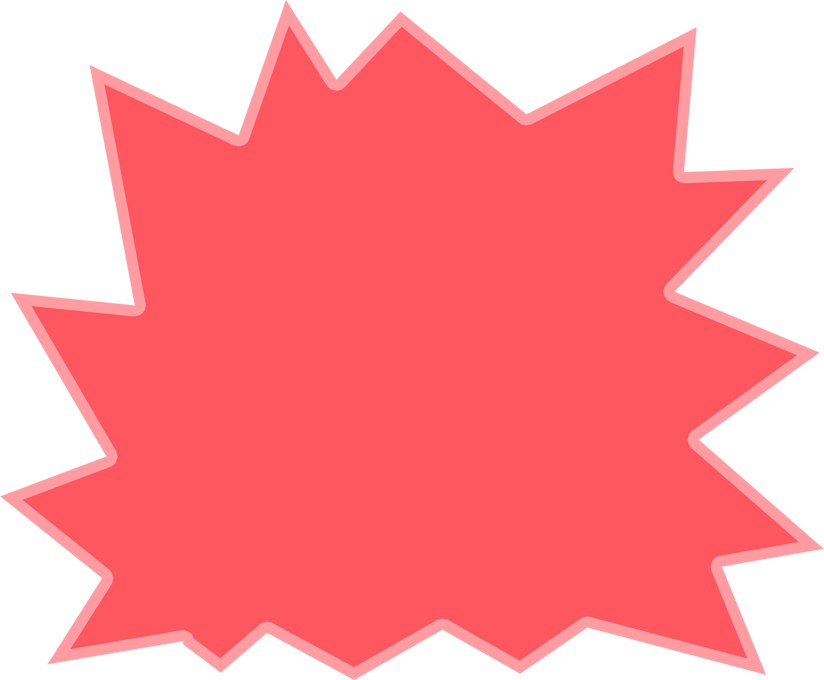
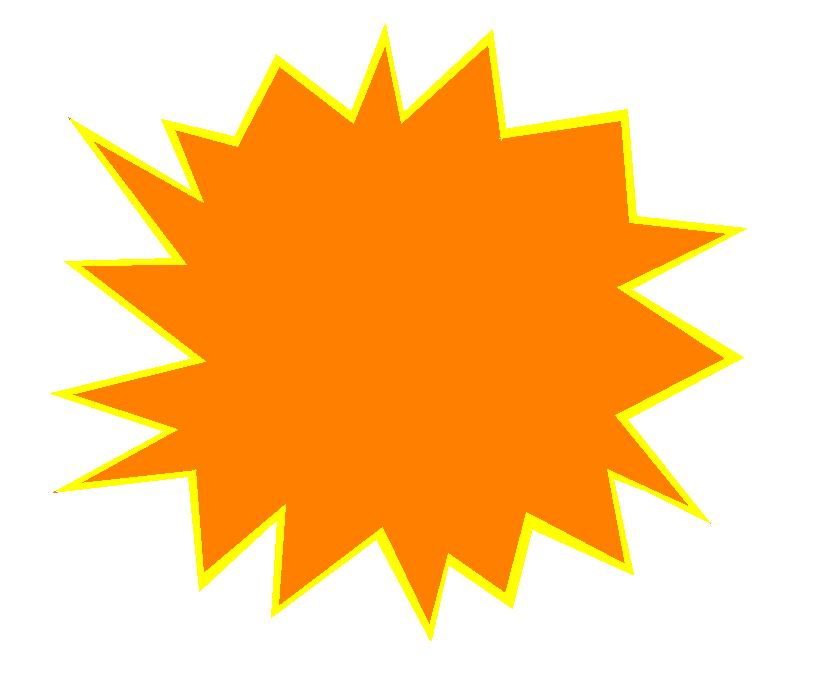
added an image for the event and resolving an issue

diff --git a/gazeplay/src/main/java/net/gazeplay/games/divisor/Target.java b/gazeplay/src/main/java/net/gazeplay/games/divisor/Target.java
@@ -79,6 +79,13 @@ class Target extends Portrait {
         this.addEventFilter(MouseEvent.ANY, enterEvent);
         this.addEventHandler(GazeEvent.ANY, enterEvent);
 
+        // this.setPosition(new Position((int) (this.dimension.getWidth()/2), (int) (this.dimension.getHeight())));
+
+        /*
+         * if (this.getPosition().getY() >= (dimension.getHeight() - this.getRadius())) { this.setPosition(new
+         * Position(this.getPosition().getX(), (int) (this.getPosition().getY()-this.getRadius()))); }
+         */
+
         move();
 
         stats.start();
@@ -128,8 +135,7 @@ class Target extends Portrait {
         c.setCenterX(x);
         c.setCenterY(y);
         c.setRadius((int) 180 / (level + 1));
-        // c.setFill(new ImagePattern(explosion, 0, 0, 1, 1, true));
-        c.setFill(Color.WHITE);
+        c.setFill(new ImagePattern(explosion, 0, 0, 1, 1, true));
         this.gameContext.getChildren().add(c);
 
         FadeTransition ft = new FadeTransition(Duration.millis(500), this);
